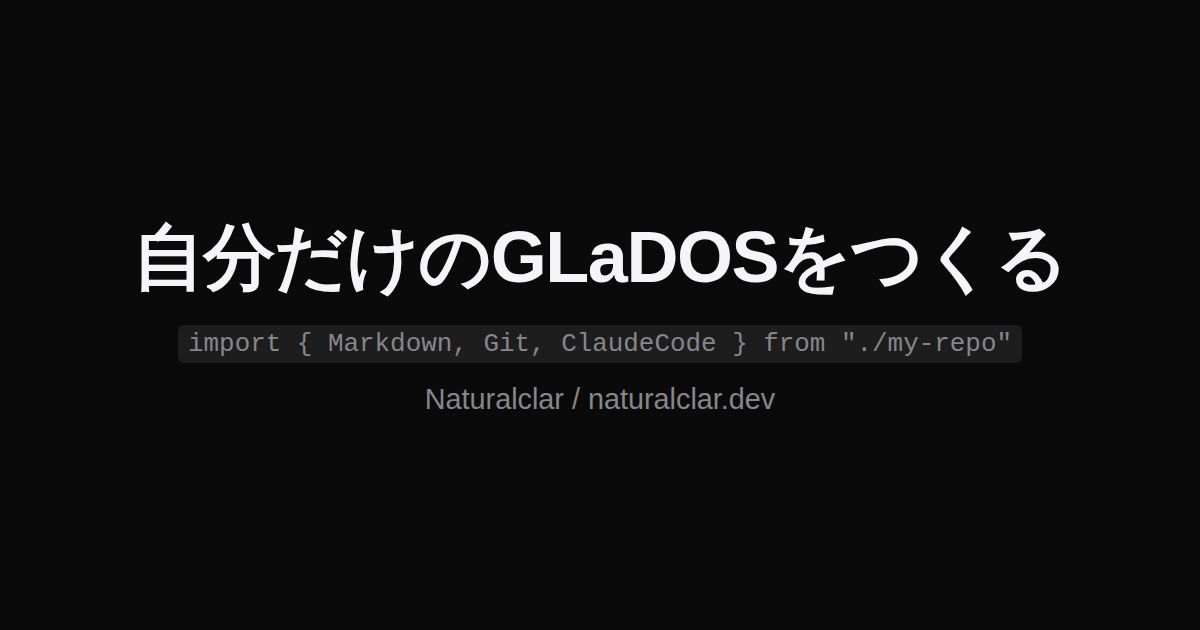
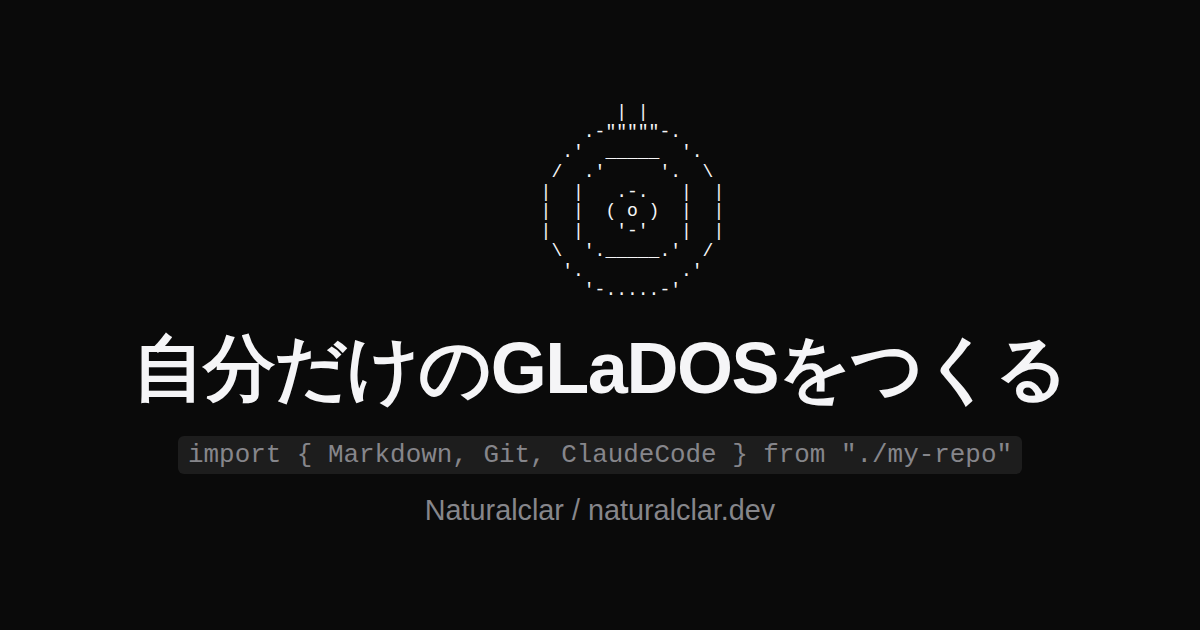
Put an ASCII core above the title
A hanging single-eyed core on slide 1, so the GLaDOS in the title has
something to point at while the subtitle does the grounding underneath.

Two things it needed to survive this deck:

Pure ASCII, no box-drawing characters. In the CJK font stack those are often
full-width, which would shear the art on exactly the machines this is presented
from. Only |, -, _, ., ', /, \, (, ) and o are used.

Block-centered with its lines left-aligned. .slide-inner sets text-align:
center, which centers each line of a <pre> independently — the art would come
apart line by line. The block centers; the interior does not.

Sized so it actually reads: the first attempt rendered 194px wide and looked
like noise with colour fringing on the thin glyphs. Also aria-hidden, since the
heading already says what it is.

public/ogp.png regenerated — the card is a screenshot of this slide.

Verified: art intact at 10 lines, slide 1 content 442px of an 800px viewport,
legible in both themes (near-white on near-black, near-black on near-white),
17 sections, print 17 pages, no external requests.

Claude-Session: https://claude.ai/code/session_01Aqs5Ldf61pQp8oXZ7hrNXo

diff --git a/src/styles.css b/src/styles.css
@@ -124,6 +124,24 @@ code {
     monospace;
 }
 
+/* ─── Title slide ASCII art ─── */
+.ascii {
+  /* .slide-inner centers text, which would center each line of the art
+     independently and shear it. Center the block instead, and keep the
+     lines left-aligned inside it. */
+  display: block;
+  width: fit-content;
+  margin: 0 auto 1.5rem;
+  text-align: left;
+
+  font-family: "SF Mono", SFMono-Regular, Consolas, "Liberation Mono", Menlo,
+    monospace;
+  font-size: clamp(0.75rem, 1.5vw, 1.4rem);
+  line-height: 1.1;
+  color: var(--fg);
+  white-space: pre;
+}
+
 /* ─── Intro slide ─── */
 .avatar {
   display: block;

diff --git a/src/sections.tsx b/src/sections.tsx
@@ -18,6 +18,17 @@ export const sections: Section[] = [
     id: "title",
     content: (
       <>
+        <pre className="ascii" aria-hidden="true">{`             | |
+          .-"""""-.
+        .'  _____  '.
+       /  .'     '.  \\
+      |  |   .-.   |  |
+      |  |  ( o )  |  |
+      |  |   '-'   |  |
+       \\  '._____.'  /
+        '.         .'
+          '-.....-'
+`}</pre>
         <h1>自分だけのGLaDOSをつくる</h1>
         <p className="sub">
           <code>{'import { Markdown, Git, ClaudeCode } from "./my-repo"'}</code>
